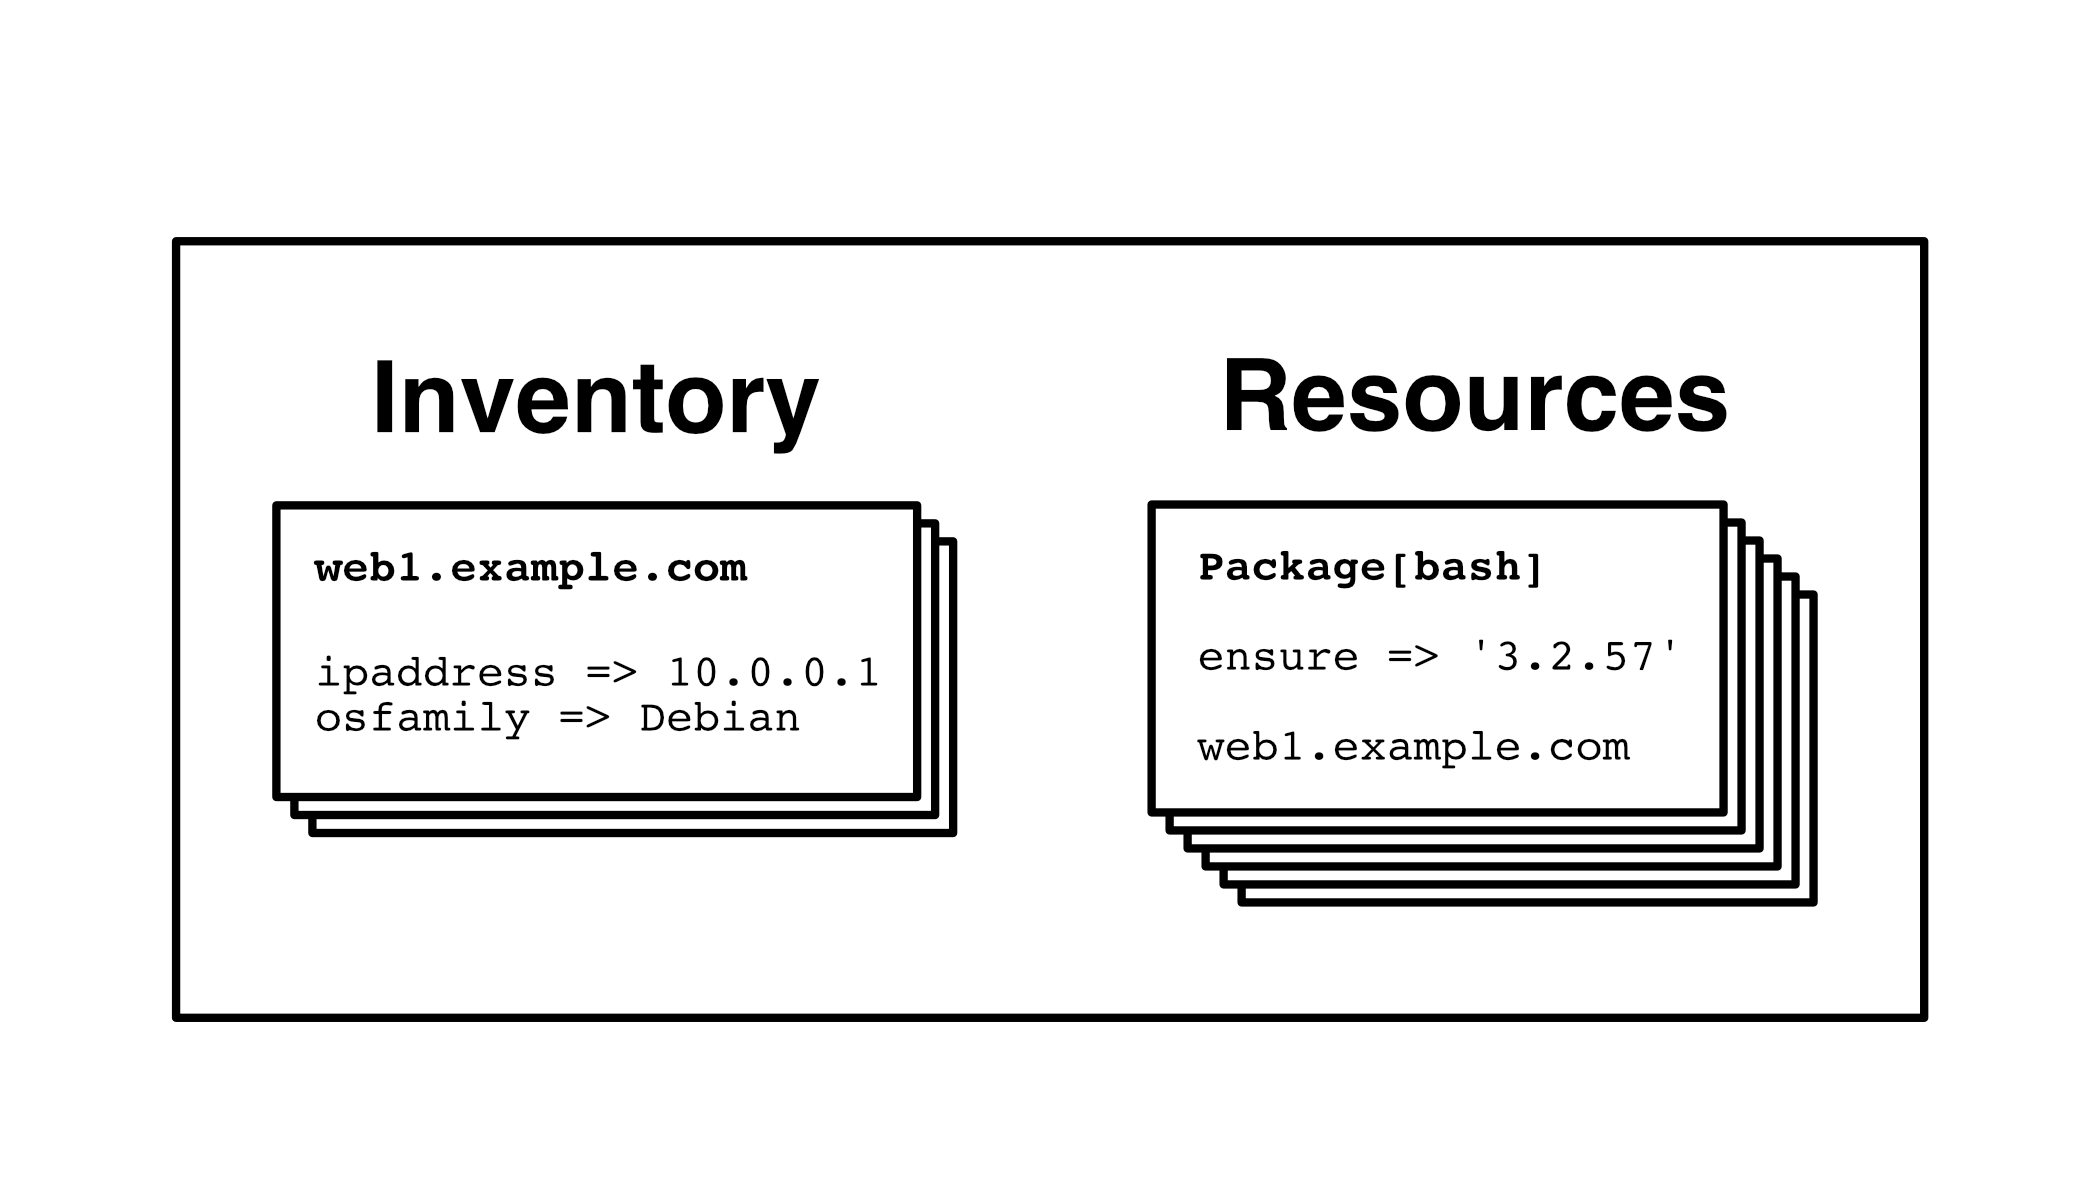
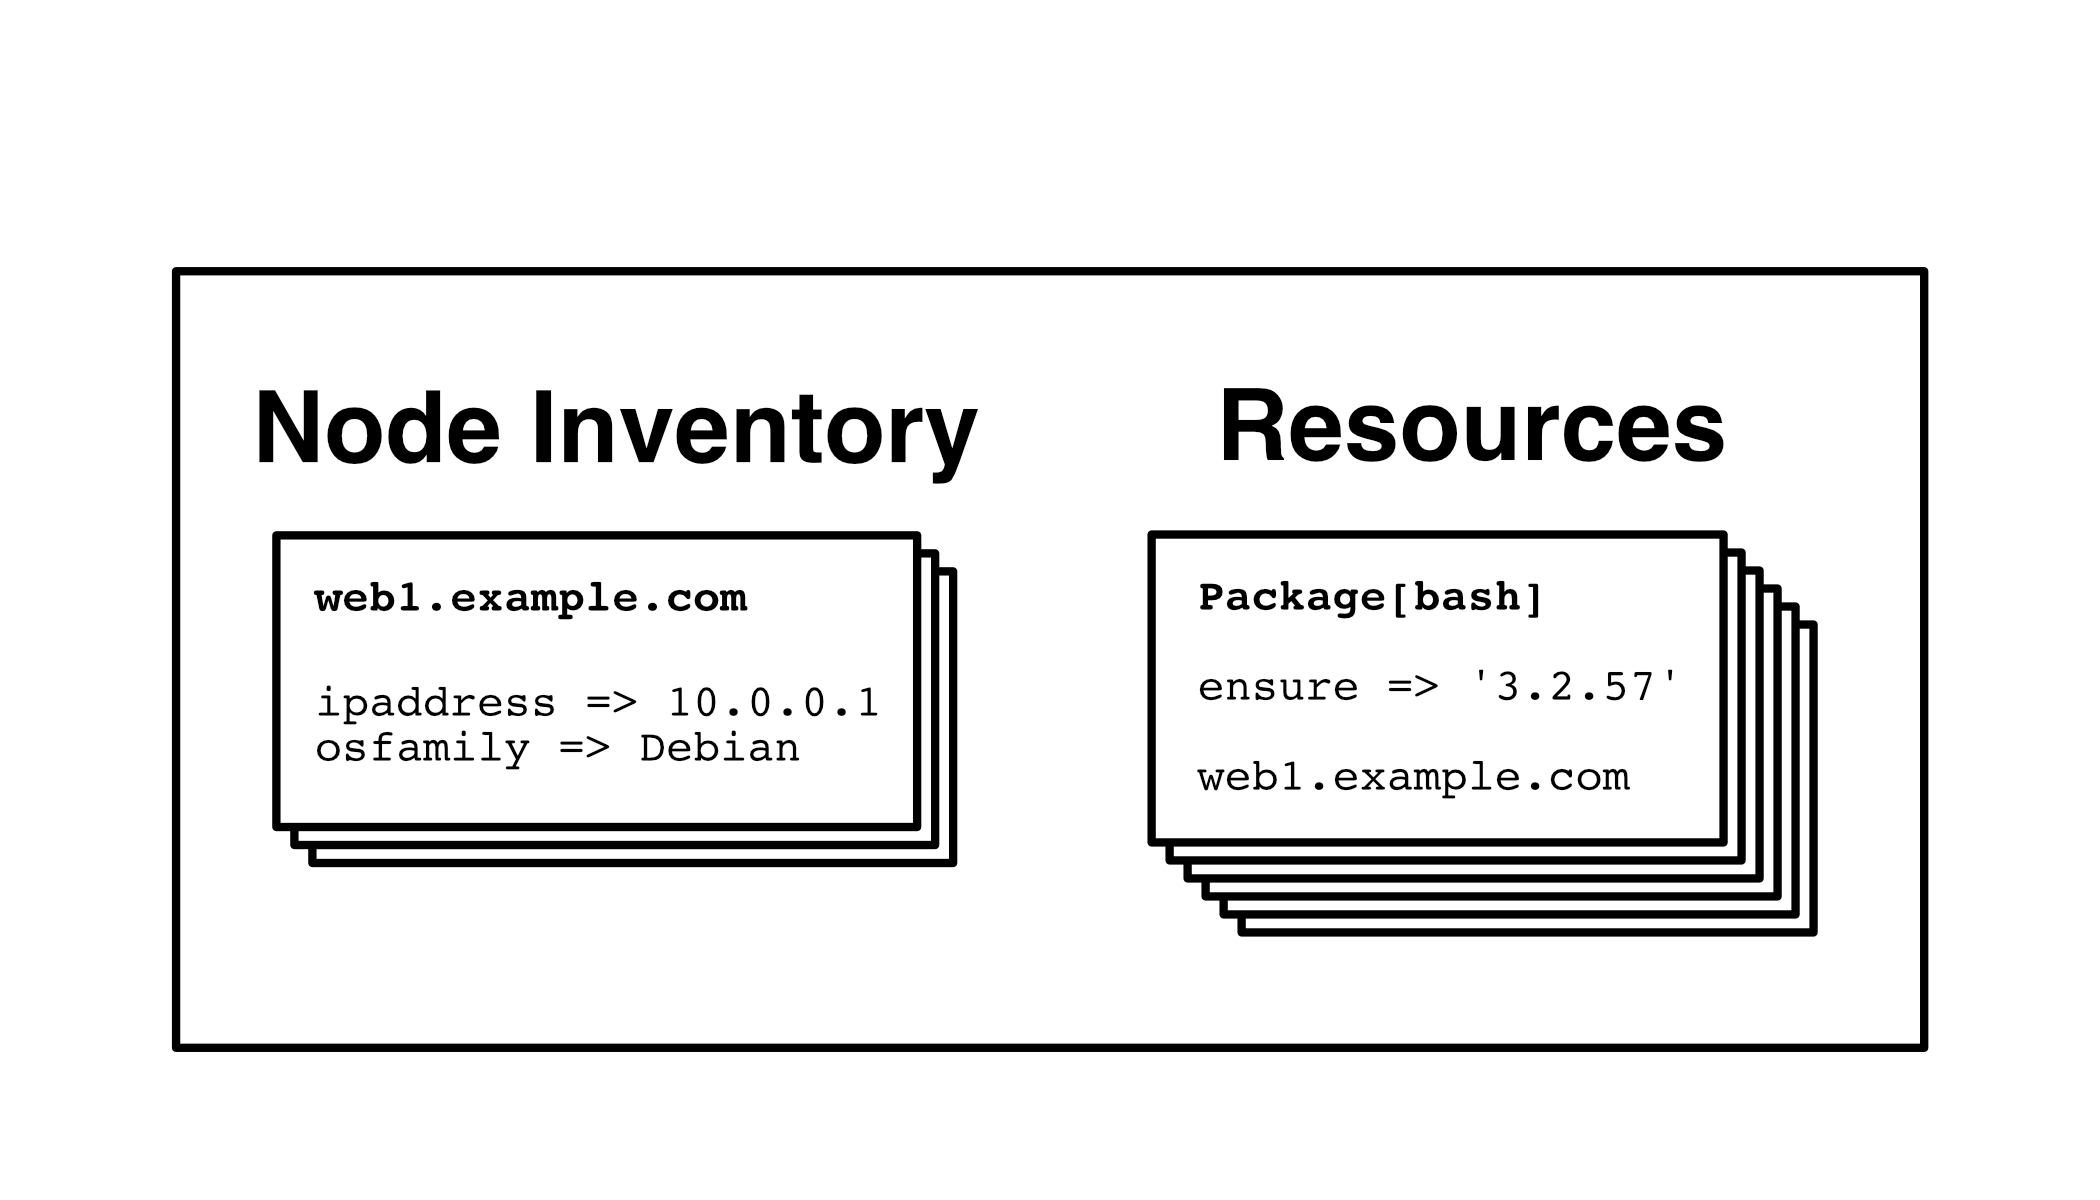
A bunch of updates for Daniel's part of talk.

diff --git a/slides.md b/slides.md
@@ -28,76 +28,107 @@ theme: Zurich, 5
 ## Puppet Query Language (PQL)
 
 ---
+
+# Node Inventory
+
+fact      | value
+----------|----------------------
+certname  | web1-prod.example.com
+ipaddress | 10.0.0.1
+os.family | Debian
+
+---
+
 ```Ruby
-inventory { certname ~ "prod" and facts.os.family = "Debian" }
+# Get information about nodes (hosts)
+inventory {
+
+  # Only nodes where the certname (FQDN) contains "prod"
+  certname ~ "prod"
+
+  # and the OS is Debian
+  and facts.os.name = "Debian"
+}
 ```
 
 ---
 ```Ruby
-$ puppet query 'inventory { certname ~ "prod" and facts.os.family = "Debian" }'
+$ puppet query 'inventory { certname ~ "prod"
+                            and facts.os.name = "Debian" }'
 [
   {
     "certname": "web1-prod.example.com",
     "timestamp": "2017-03-22T19:36:20.095Z",
-    "environment": "production",
     "facts": {
+      "ipaddress": "10.0.0.1",
       "memoryfreeinbytes": "1766612992",
       "os": {
         "name": "Debian",
-        "distro": {
-          "id": "Debian",
-          "release": {
-            "full": "8.7",
-            "major": "8",
-            "minor": "7"
-          },
-          . . .
+        . . .
 ```
+---
+
+# Resources
+
+```Puppet
+class profile::database ( $password ) {
+  # This is a resource:
+  postgresql::server::db { 'myapp_database':
+    user     => 'myapp',
+    password => $password,
+  }
+}
+```
+
 ---
 ^ Returns file and line number where the resource is defined
 ^ Includes all parameters for the resource, including the ones that aren't directly specified and come from defaults or hiera
 
 ```Ruby
-$ puppet query 'resources { type = "Postgresql::Server::Database" }'
+$ puppet query 'resources { type = "Postgresql::Server::Db" }'
 [
   {
-    "tags": [ . . . ],
-    "file": "/etc/puppetlabs/code/ . . . /profile/manifests/database.pp",
-    "type": "Postgresql::Server::Db",
-    "title": "database",
-    "line": 48,
     "certname": "db1-prod.example.com",
+    "file": ". . ./profile/manifests/database.pp",
+    "line": 3,
+    "title": "myapp_database",
     "parameters": {
       "user": "myapp",
       "grant": "ALL",
-      "owner": "myapp",
-      "dbname": "myapp",
-      "password": " . . . ",
-      "template": "template0",
-      "istemplate": false
       . . .
 ```
+
 ---
 
 ```Ruby
-$ puppet query 'resources[certname,environment,title]
+$ puppet query 'resources { type = "Postgresql::Server::Db" }'
+[
+  {
+    "certname": "db1-prod.example.com",
+    "file": ". . ./profile/manifests/database.pp",
+    "line": 3,
+    "title": "myapp_database",
+    "parameters": {
+      "user": "myapp",
+      "grant": "ALL",
+      . . .
+```
+
+---
+
+```Ruby
+$ puppet query 'resources[certname,title]
   { type = "Class" and title ~ "Role::" }'
 [
   {
     "certname": "web1-prod.example.com",
-    "environment": "production",
     "title": "Role::Web"
   },
   {
     "certname": "db1-prod.example.com",
-    "environment": "production",
     "title": "Role::Db"
   },
-  {
-    "certname": "web2-dev.example.com",
-    "environment": "nginx_update",
-    "title": "Role::Web"
-    . . .
+  . . .
 ```
 ---
 
@@ -110,18 +141,18 @@ $ puppet query 'resources[certname,environment,title]
 ^ Here's an example of setting up hosts in our Icinga2 monitoring system.
 ^ We query for all nodes and create a host resource for them based on facts defined for each node.
 
-```puppet
+```Puppet
 puppetdb_query('inventory {}').each |$node| {
-  $notification_period = 'allhours'
+  $period = 'allhours'
 
 
 
 
-  icinga2::object::host { $node['trusted']['certname']:
+  icinga2::object::host { $node['certname']:
     ipv4_address => $node['facts']['ipaddress'],
     vars         => {
       'owner'               => $node['facts']['owner'],
-      'notification_period' => $notification_period,
+      'notification_period' => $period,
     },
   }
 }
@@ -131,37 +162,19 @@ puppetdb_query('inventory {}').each |$node| {
 ^ Here's an advantage over exported resources.
 ^ If I want to test a change to the host object, I only have to run puppet on the master node instead of running it on the host and then then master.
 
-```puppet
+```Puppet
 puppetdb_query('inventory {}').each |$node| {
-  $notification_period = $node['trusted']['hostname'] ? {
+  $period = $node['trusted']['hostname'] ? {
     /-prod$/  => 'allhours',
     /-stage$/ => 'workhours',
   }
 
-  icinga2::object::host { $node['trusted']['certname']:
+  icinga2::object::host { $node['certname']:
     ipv4_address => $node['facts']['ipaddress'],
     vars         => {
       'owner'               => $node['facts']['owner'],
-      'notification_period' => $notification_period,
+      'notification_period' => $period,
     },
-  }
-}
-```
----
-
-## Service Discovery
-
-^ We use this pattern at Puppet a lot
-^ for things like populating load balancers
-^ and configuring monitoring
-
-```puppet
-puppetdb_query('inventory { certname ~ "^web" }').each |$node| {
-  haproxy::balancermember { $node['facts']['fqdn']:
-    listening_service => 'www',
-    server_names      => $node['facts']['fqdn'],
-    ipaddresses       => $node['facts']['ipaddress'],
-    ports             => '80',
   }
 }
 ```

diff --git a/dp-text.md b/dp-text.md
@@ -1,0 +1,53 @@
+So, puppet automatically stores all of this data for you in PuppetDB. In order to get that data out, you use Puppet Query Language, or PQL.
+
+With PQL you specify what kind of data you want — node inventory or resources — and then a filter on that data.
+
+---
+
+Let's talk about node inventory first. Puppet automatically collects facts about all of your nodes. (By "nodes" I mean servers or virtual machines.) Facts include things like the server's certname (basically its hostname), its IP address, and the OS it's running.
+
+---
+
+Puppet stores all of that information in the inventory.
+
+To query it, you specify what you want — inventory — and then a filter. In this case we want nodes with "prod" in their hostname, and that are running Debian.
+
+---
+
+Here are the abbreviated results of that query. You can see that it found a node called `web1-prod`, that it has an IP address, that it has about one and a half gigs of memory free, and that it's running Debian.
+
+Of course, depending on the size of your infrastructure this might return hundreds or thousands of nodes.
+
+---
+
+Let's move on to resources.
+
+Resources are "things" on a server. A package, a file, or something more complex like a Postgres database. Here's some puppet code to define a database.
+
+---
+
+You can query resources just like node inventory. You specify what you want — resources — and then a filter. In this case we want resources of type `postgresql::server::db`.
+
+That's gonna return a *bunch* of useful information. It tells you what nodes it's on, all of its parameters, as well as the file and line number of the resource in your puppet code.
+
+It's super useful for debugging. If I want to make a change to a resource, I can query PuppetDB and find out exactly which nodes will be affected.
+
+---
+---
+
+Here's another useful query. The standard practice in puppet is to define a "role" for each node, like "web" or "db". Here's how you get the role of every single node in your infrastructure.
+
+---
+
+What are some other ways to use PuppetDB? How about querying it in your puppet code?
+
+It's great for things like defining what backend servers your load balancer should hit. Or, for setting up monitoring to check on all of your hosts.
+
+We use Icinga2 for monitoring at puppet. Let's look at an example of defining hosts to be monitored.
+
+This just calls the function `puppetdb_query` with a string of PQL, and then iterates over the results using facts about the nodes to define host objects in Icinga.
+
+Now, if you've used puppet you might be used to exported resources. One of the big reasons to use this over exported resources is so that you can make changes in just one place.
+
+For example, changing the host object in Icinga only requires a puppet run on the Icinga master rather than runs on each of the hosts and then the master.
+
